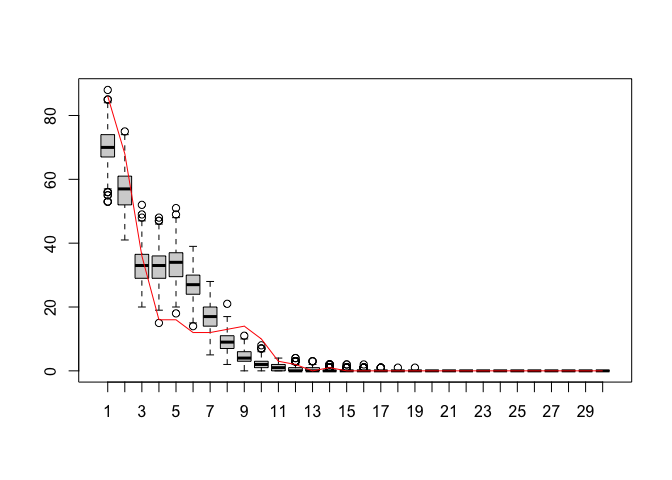
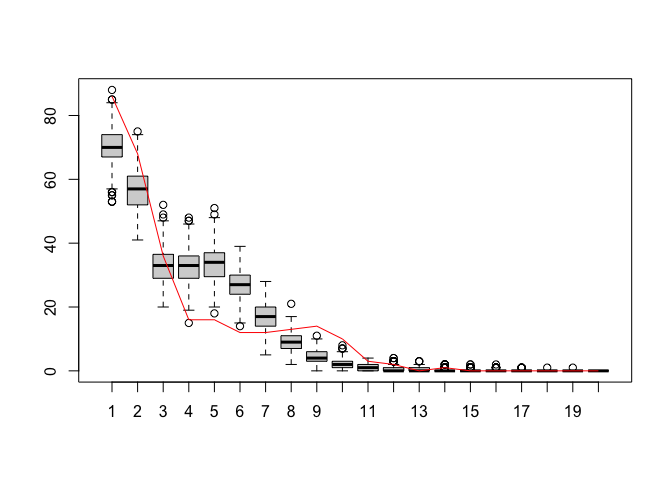
update in example and read_me

diff --git a/README.md b/README.md
@@ -15,18 +15,19 @@ to faculty hiring networks. Social Networks, 68, 264-278.
 
 [Link to the study in Social
 Networks](https://www.sciencedirect.com/science/article/pii/S0378873321000654).
-[Pre-print with minor differences to the journal
-version](https://osf.io/preprints/socarxiv/n86rx/)
 
-The model allows for the analysis of emergent structures known from
-network analysis in mobility tables, alongside exogenous predictors. It
+[Pre-print with minor differences to the journal
+version](https://osf.io/preprints/socarxiv/n86rx/).
+
+The model allows for the analysis of emergent structures (known from
+network analysis) in mobility tables, alongside exogenous predictors. It
 combined features from classical log-linear models for mobility tables
 and Exponential Random Graph Models (ERGMs). In the absence of emergent
 structures, the models reduces to the former, when ignoring
 characteristics of individuals, it is an ERGM for weighted networks.
 
 Announcements about workshops etc. can be found
-[here](https://www.suz.uzh.ch/de/institut/professuren/block/monan_software.html)
+[here](https://www.suz.uzh.ch/de/institut/professuren/block/monan_software.html).
 
 # Installation
 
@@ -47,8 +48,8 @@ remotes::install_github("perblock/MoNAn")
 
 # Example
 
-The following outlines a simple example with synthetic data stored in
-the MoNAn package.
+In this section we outline a simple example with synthetic data stored
+in the MoNAn package.
 
 ``` r
 library(MoNAn)
@@ -62,8 +63,8 @@ library(snowfall)
 
 The example case uses synthetic data that represents mobility of 742
 individuals between 17 organisations. The artificial data includes an
-edgelist, i.e. a list of origins and destinations of individuals sorted
-by origin.
+edgelist, i.e. a list of origins (column 1) and destinations (column 2)
+of all individuals sorted by origin.
 
 ``` r
 mobilityEdgelist[1:10,]
@@ -81,8 +82,8 @@ mobilityEdgelist[1:10,]
 ```
 
 The data further includes (artificial) characteristics of individuals,
-here their sex. However, using continuous covariates is also possible,
-although for some effects this would not be meaningful.
+which we will call sex. However, using continuous covariates is also
+possible, although for some effects this would not be meaningful.
 
 ``` r
 indSex[1:10]
@@ -107,13 +108,15 @@ orgSize
 
 ### Preparing the data
 
-First, we create MoNAn data objects from the introduced data files.
+First, we create MoNAn data objects from the introduced data files. A
+necessary part is that we define and name the nodesets, i.e., we name
+who (“people”) is mobile between what (“organisations”).
 
 ``` r
 # create objects
-transfers <- createEdgelist(mobilityEdgelist, nodeSet = c("organisations", "organisations", "people"))
 people <- createNodeSet(1:nrow(mobilityEdgelist))
 organisations <- createNodeSet(1:length(orgRegion))
+transfers <- createEdgelist(mobilityEdgelist, nodeSet = c("organisations", "organisations", "people"))
 sameRegion <- outer(orgRegion, orgRegion, "==") * 1
 sameRegion <- createNetwork(sameRegion, nodeSet = c("organisations", "organisations"))
 region <- createNodeVariable(orgRegion, nodeSet = "organisations")
@@ -154,7 +157,7 @@ myCache <- createWeightedCache(myState, myDependentVariable, resourceCovariates 
 
 The predictors in the model are called “Effects” and they are defined in
 a list. Each effect itself is a list that contains the effect name and
-additional parameters that it needs.
+the additional parameters it needs.
 
 ``` r
 # create an effects object
@@ -173,8 +176,8 @@ myEffects <- createEffectsObject(
 ### Optional: Pre-estimation
 
 We can run a pseudo-likelihood estimation that gives a (biased) guess of
-the model results. We can use this to get improved initial estimates,
-which increases the chances of model convergence in the first run of the
+the model results. We use this to get improved initial estimates, which
+increases the chances of model convergence in the first run of the
 estimation considerably. To get pseudo-likelihood estimates, we need to
 use functions from other libraries to estimate a multinomial logit model
 (e.g., “dfidx” and “mlogit”)
@@ -327,7 +330,7 @@ autoCorrelationTest(myDependentVariable, myResDN)
 ```
 
 The output of extractTraces indicates the correlation of statistics
-between subsequent draws from the chin in phase 3. The plot should show
+between subsequent draws from the chain in phase 3. The plot should show
 data point randomly scattered around the target line, as shown below. If
 patterns in the traces are discernible, a higher thinning is needed.
 
@@ -374,7 +377,7 @@ Akin to ERGMs, goodness of fit testing is available to see whether
 auxiliary statistics are well captured by the model.
 
 ``` r
-myGofIndegree <- gofDistributionNetwork(ans = myResDN, simulations = myResDN$deps, gofFunction = getIndegree, lvls = 1:100)
+myGofIndegree <- gofDistributionNetwork(ans = myResDN, simulations = myResDN$deps, gofFunction = getIndegree, lvls = 1:70)
 plot(myGofIndegree)
 ```
 
@@ -382,7 +385,7 @@ plot(myGofIndegree)
 
 ``` r
 
-myGofTieWeight <- gofDistributionNetwork(ans = myResDN, simulations = myResDN$deps, gofFunction = getTieWeights, lvls = 1:30)
+myGofTieWeight <- gofDistributionNetwork(ans = myResDN, simulations = myResDN$deps, gofFunction = getTieWeights, lvls = 1:20)
 plot(myGofTieWeight)
 ```
 
